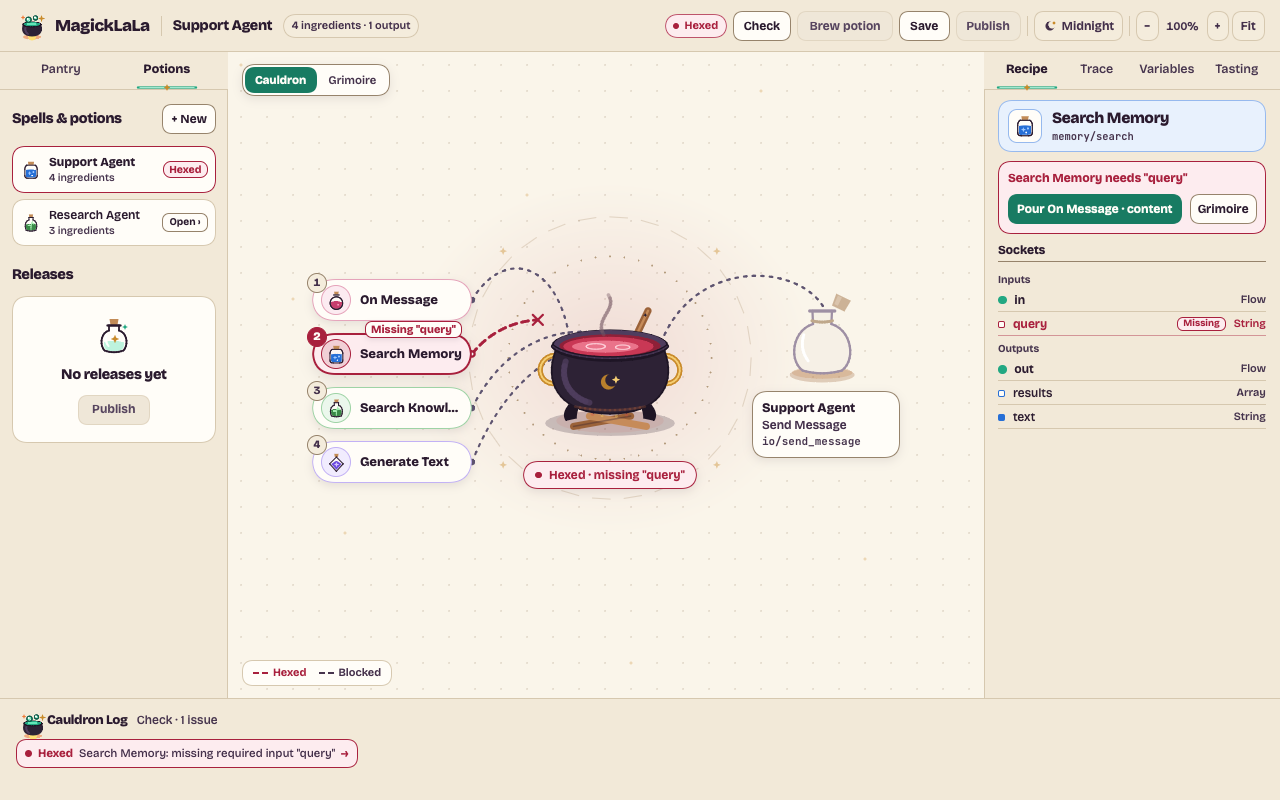
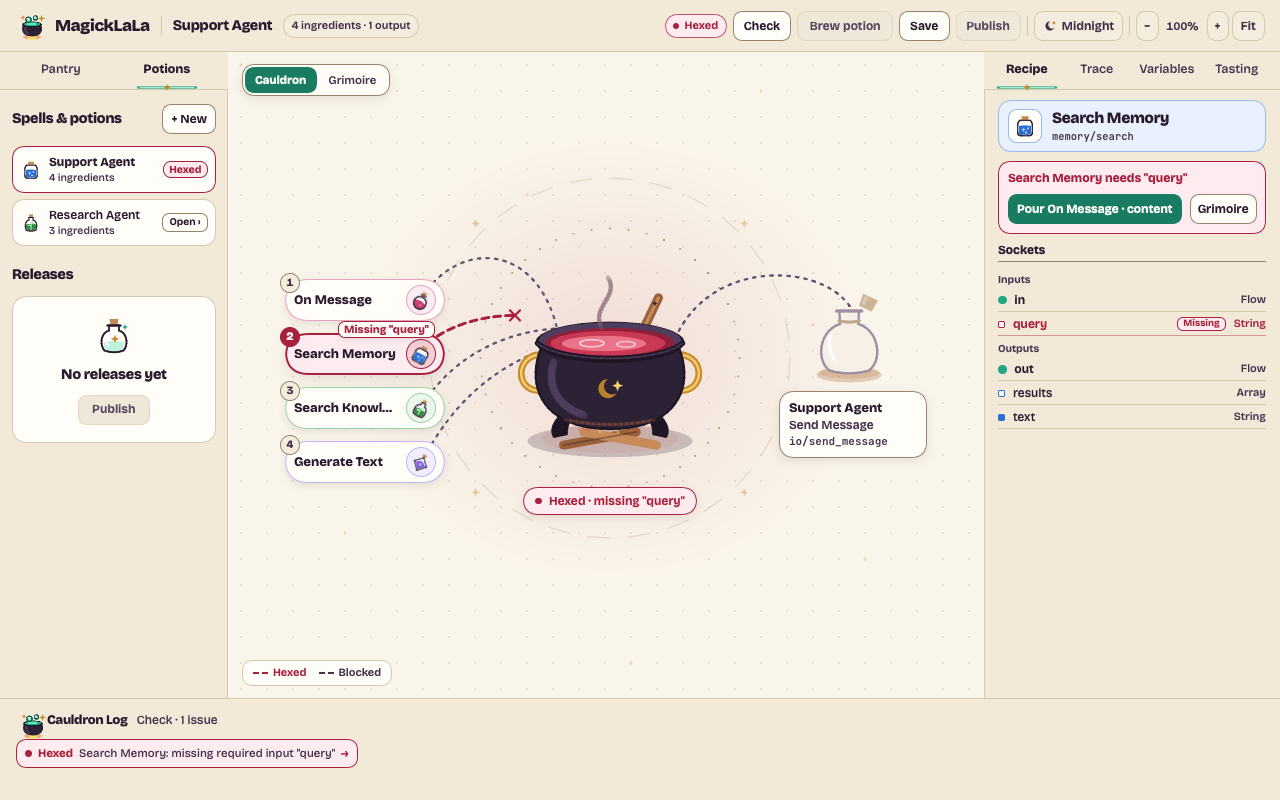
feat(canvas): bigger cauldron, vials sit on the pot side of their cards and tip toward it, streams pour from each vial mouth; narrow stacked layout keeps a slightly smaller pot

Changed region(s): [[0.2188, 0.3438, 0.5625, 0.6562], [0.5625, 0.3438, 0.6875, 0.5625], [0.375, 0.3125, 0.4062, 0.3438]]

diff --git a/crates/magicklala-canvas/src/cauldron.rs b/crates/magicklala-canvas/src/cauldron.rs
@@ -91,7 +91,7 @@ fn drips(state: &CanvasState, plan: &BrewPlan, mood: CauldronMood, p: &HearthPal
         if style.untaken || style.blocked || style.hexed {
             continue;
         }
-        let from = [placed.rect[0] + placed.rect[2], placed.rect[1] + placed.rect[3] * 0.5];
+        let from = vial_mouth(placed, plan);
         let to = rim_point(plan, index as f32 / spread.max(1.0));
         let r = (if style.active { 3.4 } else { 2.6 }) * plan.scale.max(0.6);
         let period = if style.active { 0.9 } else { 1.8 };
@@ -112,6 +112,13 @@ fn drips(state: &CanvasState, plan: &BrewPlan, mood: CauldronMood, p: &HearthPal
     out
 }
 
+fn vial_mouth(placed: &BrewCard, plan: &BrewPlan) -> [f32; 2] {
+    let scale = placed.rect[3] / plan.vial[1];
+    let badge = if plan.vial[1] < 50.0 { 30.0 } else { 38.0 };
+    let center = [placed.rect[0] + placed.rect[2] - (9.0 + badge * 0.5) * scale, placed.rect[1] + placed.rect[3] * 0.5];
+    [center[0] + badge * 0.22 * scale, center[1] - badge * 0.36 * scale]
+}
+
 fn streams_shape(state: &CanvasState, plan: &BrewPlan, mood: CauldronMood, p: &HearthPalette) -> Shape {
     let mut shape = Shape::new();
     let ingredients: Vec<&BrewCard> = plan.with_role(BrewRole::Ingredient).collect();
@@ -120,7 +127,7 @@ fn streams_shape(state: &CanvasState, plan: &BrewPlan, mood: CauldronMood, p: &H
     let spread = ingredients.len().max(2) as f32 - 1.0;
     for (index, placed) in ingredients.iter().enumerate() {
         let Some(card) = state.card(&placed.id) else { continue };
-        let from = [placed.rect[0] + placed.rect[2], placed.rect[1] + placed.rect[3] * 0.5];
+        let from = vial_mouth(placed, plan);
         let lift = (36.0 - index as f32 * 10.0).max(0.0) * plan.scale;
         let style = stream_for(state, card, mood, p, lift);
         shape = pouring_stream_shape(shape, from, rim_point(plan, index as f32 / spread.max(1.0)), style);

diff --git a/crates/magicklala-canvas/src/view.rs b/crates/magicklala-canvas/src/view.rs
@@ -198,12 +198,13 @@ pub(crate) fn ingredient_vial_card<S: 'static>(
     let dense = dims[1] < 50.0;
     let badge = if dense { 30.0 } else { 38.0 };
     let vial_badge = el()
+        .key(format!("vial-{}", card.id.0))
         .size(badge, badge)
         .radius(badge * 0.5)
         .fill(if hexed { with_alpha(p.hex, 0.14) } else { tone.tint })
         .border(1.3, if hexed { p.hex } else { tone.border })
         .center()
-        .child(canvas(mini_vial_icon(&card.category, state.light, badge * 0.76)).size(badge * 0.76, badge * 0.76));
+        .child(canvas(mini_vial_icon(&card.category, state.light, badge * 0.76)).size(badge * 0.76, badge * 0.76).rotate(if aside { 0.0 } else { 0.5 }));
 
     let step_badge = step_num.map(|num| {
         row()
@@ -313,12 +314,12 @@ pub(crate) fn ingredient_vial_card<S: 'static>(
         .fill(fill_col)
         .border(border_w, border_col)
         .shadow(if card.selected { 5.0 } else { 3.0 }, if card.selected { 14.0 } else { 9.0 }, if dimmed { Color::TRANSPARENT } else { p.shadow_card })
-        .child(vial_badge)
         .child(if dense {
             col().grow(1.0).min_w(0.0).child(top_row)
         } else {
             col().grow(1.0).min_w(0.0).gap(2.0).child(top_row).child(text(&card.kind).font(TextStyle::new(11.5, 500.0).mono()).color(sub_color).truncate())
         })
+        .child(vial_badge)
         .on_press(move |s: &mut S| lens(s).select(Some(select_id.clone())))
         .on_drag(move |s: &mut S, drag, tx| {
             tx.instant();

diff --git a/crates/magicklala-canvas/src/brew.rs b/crates/magicklala-canvas/src/brew.rs
@@ -5,7 +5,7 @@ use magicklala_graph::NodeId;
 use crate::{CanvasState, NodeCardModel, WireModel};
 
 pub const VIAL_SIZE: [f32; 2] = [196.0, 58.0];
-pub const POT_SIZE: [f32; 2] = [256.0, 248.0];
+pub const POT_SIZE: [f32; 2] = [300.0, 290.0];
 pub const SINGLE_BOTTLE_SIZE: [f32; 2] = [148.0, 196.0];
 pub const MULTI_BOTTLE_SIZE: [f32; 2] = [150.0, 148.0];
 const ROW_GAP: f32 = 22.0;
@@ -185,7 +185,7 @@ const ROOMY: Metrics = Metrics {
     bottle_gap: BOTTLE_GAP,
 };
 const CROWDED: Metrics =
-    Metrics { vial: [160.0, 42.0], pot: [196.0, 190.0], row_gap: 12.0, col_gap: 14.0, shelf_to_pot: 40.0, pot_to_bottles: 44.0, bottle_gap: 10.0 };
+    Metrics { vial: [160.0, 42.0], pot: [250.0, 242.0], row_gap: 12.0, col_gap: 14.0, shelf_to_pot: 40.0, pot_to_bottles: 44.0, bottle_gap: 10.0 };
 const READABLE: f32 = 0.92;
 
 pub fn brew_plan(state: &CanvasState, size: (f32, f32)) -> BrewPlan {
@@ -197,7 +197,7 @@ pub fn brew_plan(state: &CanvasState, size: (f32, f32)) -> BrewPlan {
     if crowded.0 >= READABLE {
         return crowded.1;
     }
-    let stacked = plan_stacked(state, size, CROWDED);
+    let stacked = plan_stacked(state, size, Metrics { pot: [204.0, 198.0], ..CROWDED });
     if stacked.0 > crowded.0 { stacked.1 } else { crowded.1 }
 }
 
